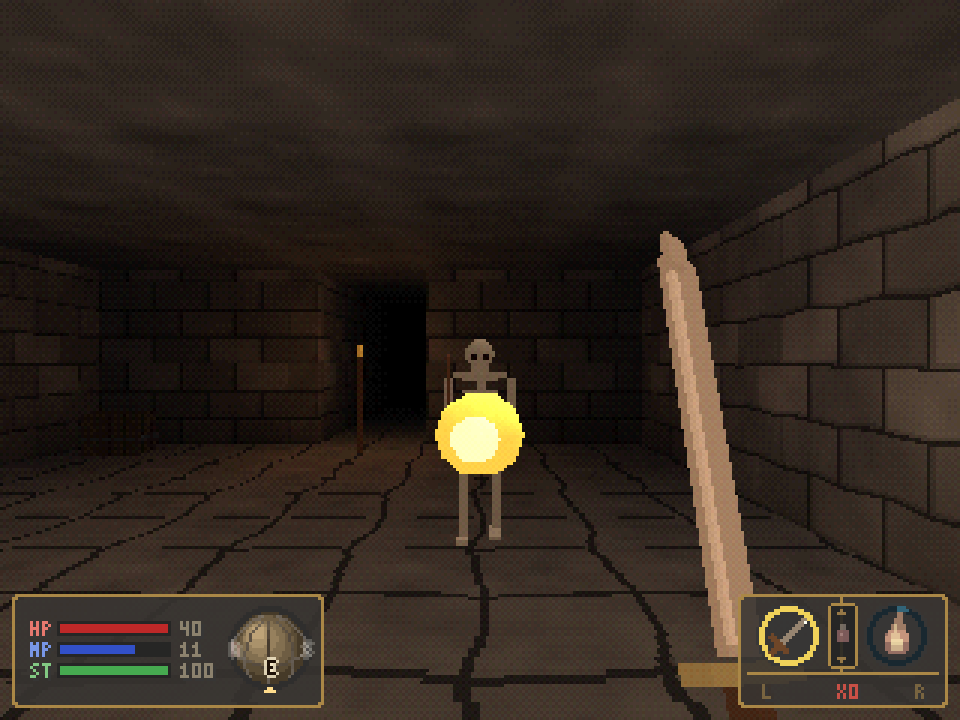
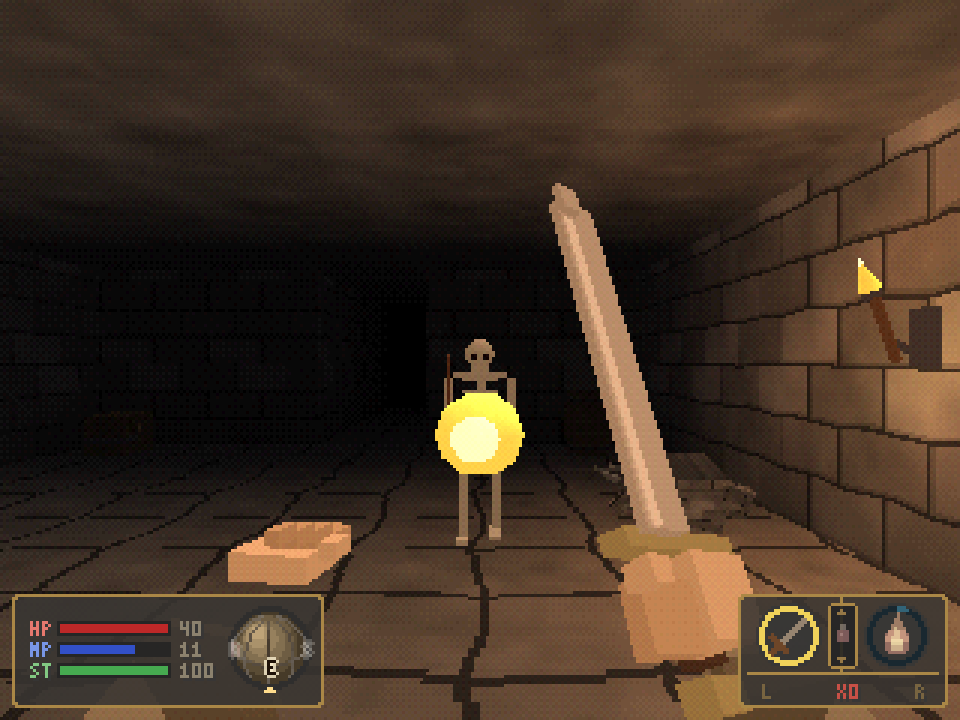
Retake README screenshots with the new hands and add combat and Corvane shots
- Retake the village, flame bolt, dialogue, warden, Belongings, jungle,
  Bark Husk, log rack and Loom Mother shots so they show the
  first-person hands and the reworked Belongings screen.
- Add a katana-and-shield combat shot and Corvane's shop to the gallery.
- Note the --equip/--level command used for the combat shot.

diff --git a/README.md b/README.md
@@ -47,7 +47,7 @@ FromSoftware, Inc.
   </tr>
   <tr>
     <td><img src="docs/screenshots/warden.png" alt="The Ashen Warden boss in its hall"></td>
-    <td><img src="docs/screenshots/inventory.png" alt="The Belongings screen with a rotating item preview"></td>
+    <td><img src="docs/screenshots/inventory.png" alt="The Belongings screen: a katana in the right hand, a shield in the left, worn armor and a rotating preview"></td>
   </tr>
   <tr>
     <td align="center"><sub>The Ashen Warden</sub></td>
@@ -68,6 +68,14 @@ FromSoftware, Inc.
   <tr>
     <td align="center"><sub>The woodcutters' log rack, waiting for climbers</sub></td>
     <td align="center"><sub>The Loom Mother</sub></td>
+  </tr>
+  <tr>
+    <td><img src="docs/screenshots/combat.png" alt="A katana in one hand and a round shield in the other, facing a bone walker"></td>
+    <td><img src="docs/screenshots/corvane.png" alt="Corvane's shop of curved blades"></td>
+  </tr>
+  <tr>
+    <td align="center"><sub>Katana and shield, one in each hand</sub></td>
+    <td align="center"><sub>Corvane's blades, for those who have proven themselves</sub></td>
   </tr>
 </table>
 
@@ -285,7 +293,9 @@ uv run ashen-vault --map sunken_keep --at 15,21,180 --smoke 100 --script "wait:1
 
 The README screenshots were taken this way. For example, the flame bolt shot is
 `uv run ashen-vault --map sunken_keep --at 15,22,0 --smoke 30 --script "wait:0.3 cast" --shot flame_bolt.png`,
-and the Loom Mother is `uv run ashen-vault --map verdant_hollow --at=15,7,-90 --smoke 40 --shot loom_mother.png`.
+the Loom Mother is `uv run ashen-vault --map verdant_hollow --at=15,7,-90 --smoke 40 --shot loom_mother.png`,
+and the katana and shield shot is
+`uv run ashen-vault --map sunken_keep --at 15,22,0 --level 8 --equip right=katana,left=round_shield,body=brigandine,hands=iron_gauntlets --smoke 100 --shot combat.png`.
 
 ## Contributing
 
